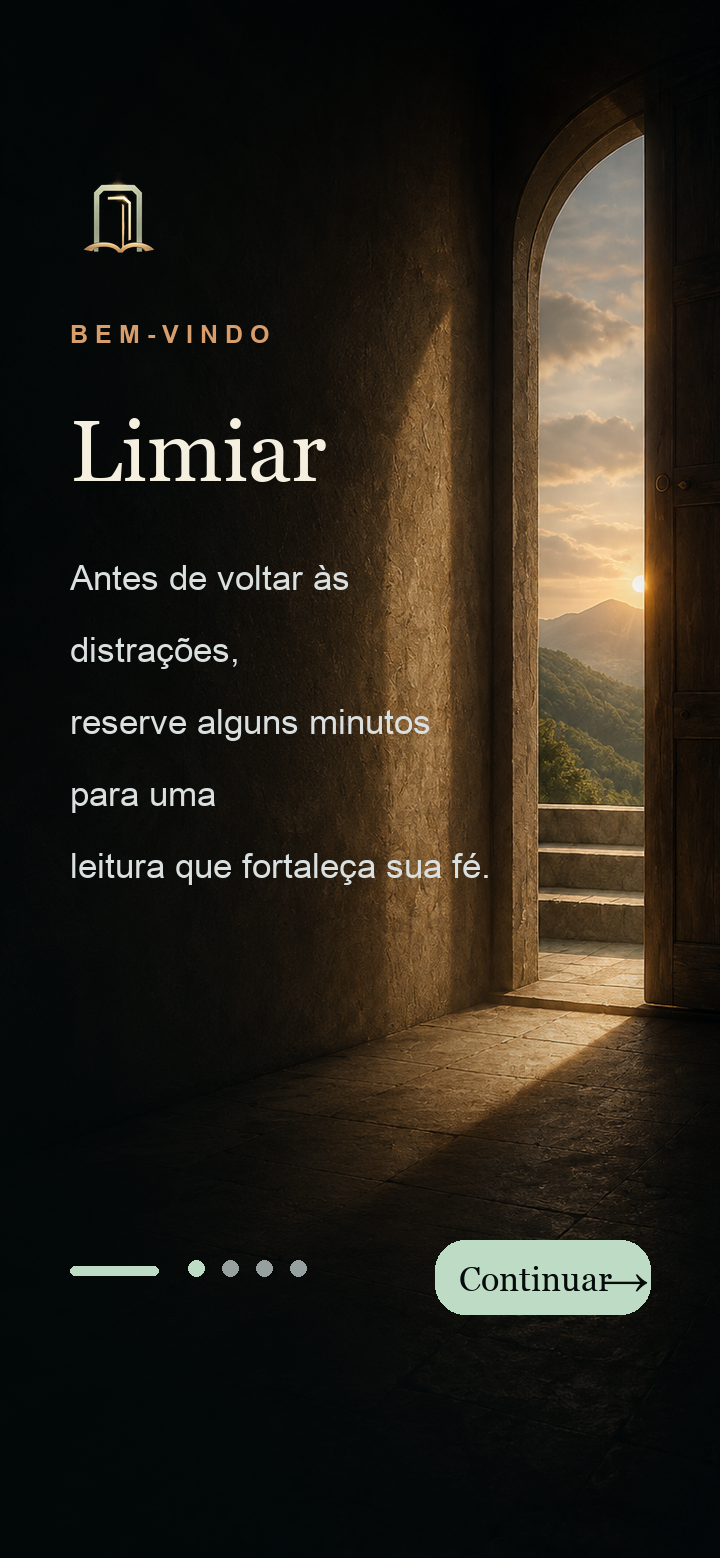
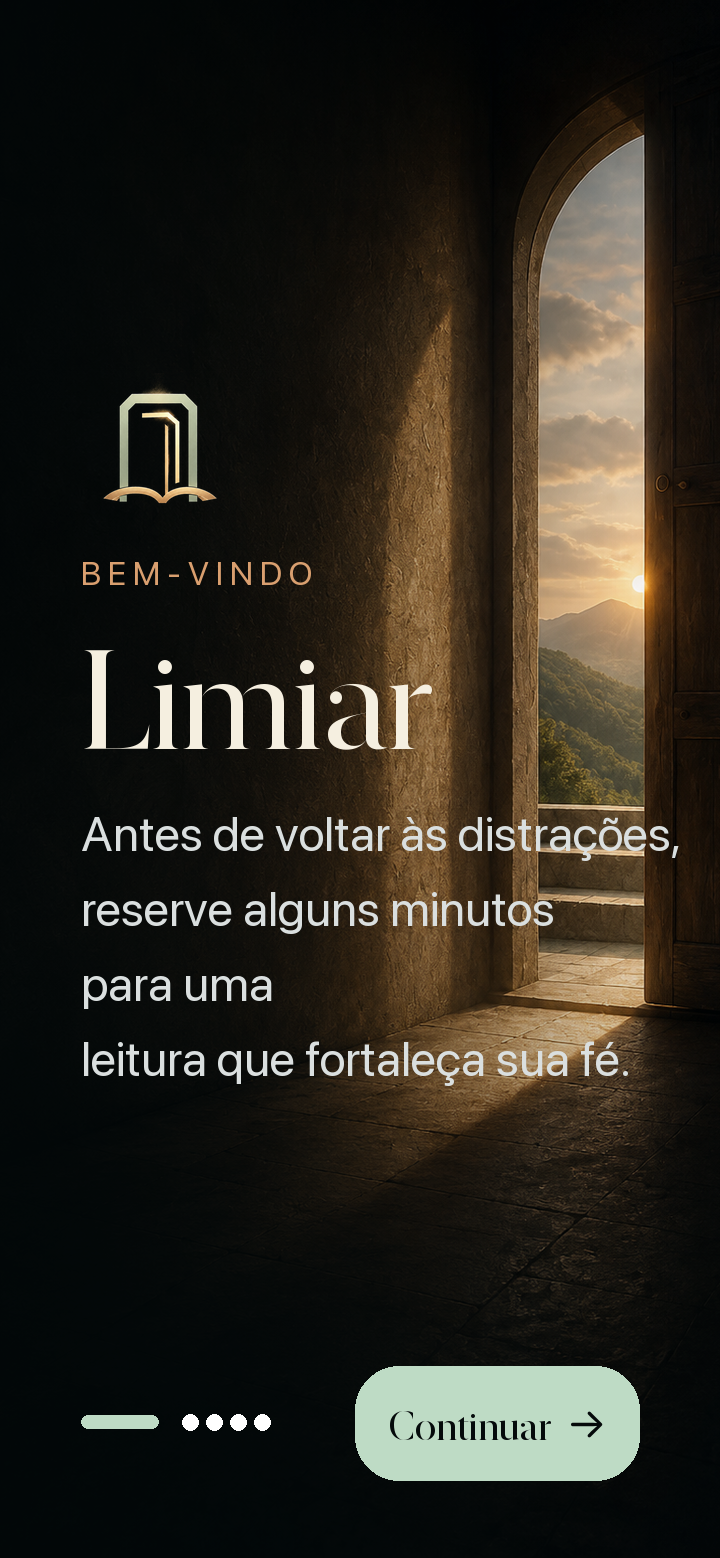
Alinha tipografia do mockup ao app

diff --git a/index.html b/index.html
@@ -49,7 +49,7 @@
           </div>
           <a class="device-lockup" href="https://apps.apple.com/br/app/limiar/id6783115468" aria-label="Abrir o Limiar na App Store">
             <div class="device-frame">
-              <img src="assets/app-onboarding.png?v=20260704-clean-screen" alt="Tela inicial do Limiar">
+              <img src="assets/app-onboarding.png?v=20260704-app-typography" alt="Tela inicial do Limiar">
             </div>
           </a>
         </div>

diff --git a/marketing/site/index.html b/marketing/site/index.html
@@ -49,7 +49,7 @@
           </div>
           <a class="device-lockup" href="https://apps.apple.com/br/app/limiar/id6783115468" aria-label="Abrir o Limiar na App Store">
             <div class="device-frame">
-              <img src="assets/app-onboarding.png?v=20260704-clean-screen" alt="Tela inicial do Limiar">
+              <img src="assets/app-onboarding.png?v=20260704-app-typography" alt="Tela inicial do Limiar">
             </div>
           </a>
         </div>
